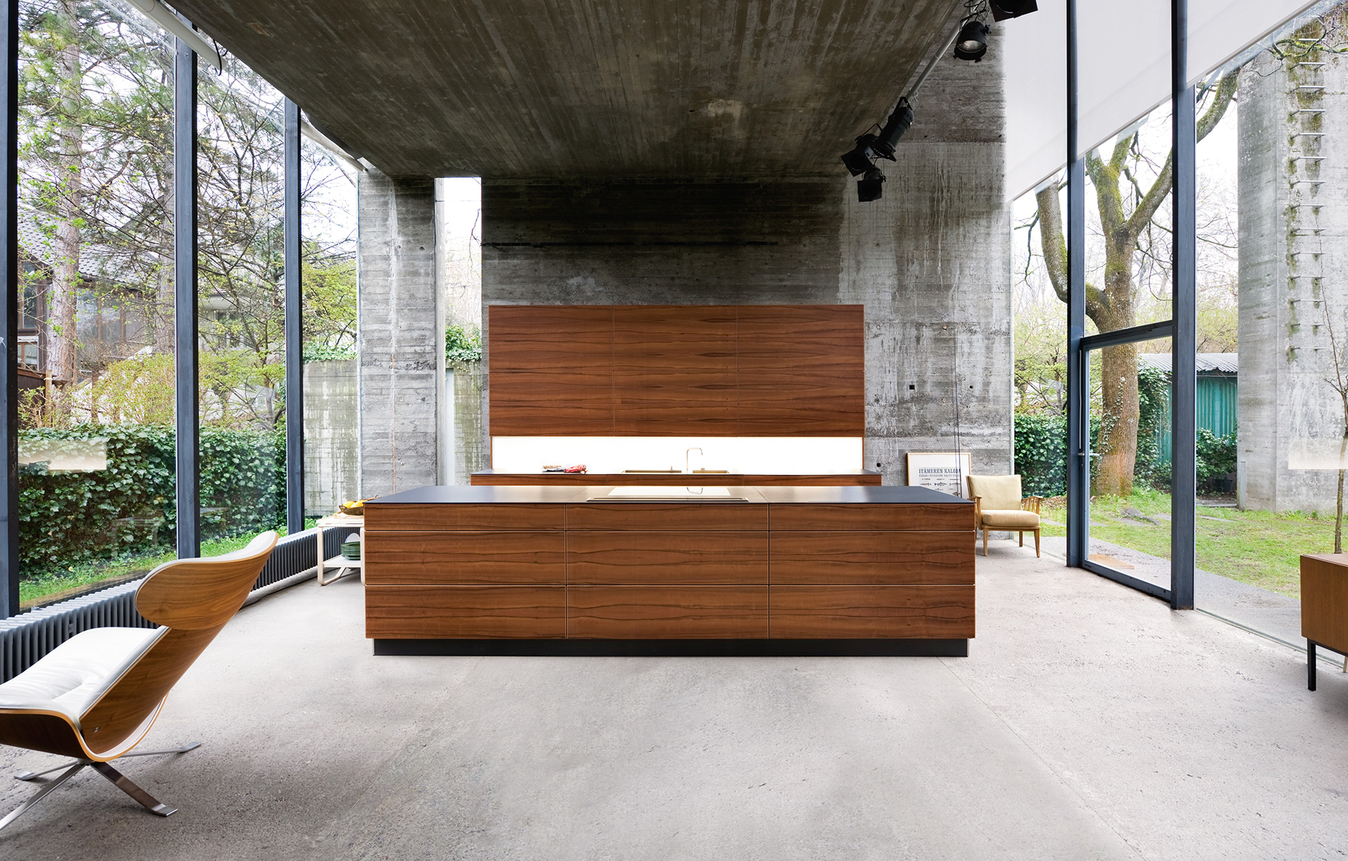
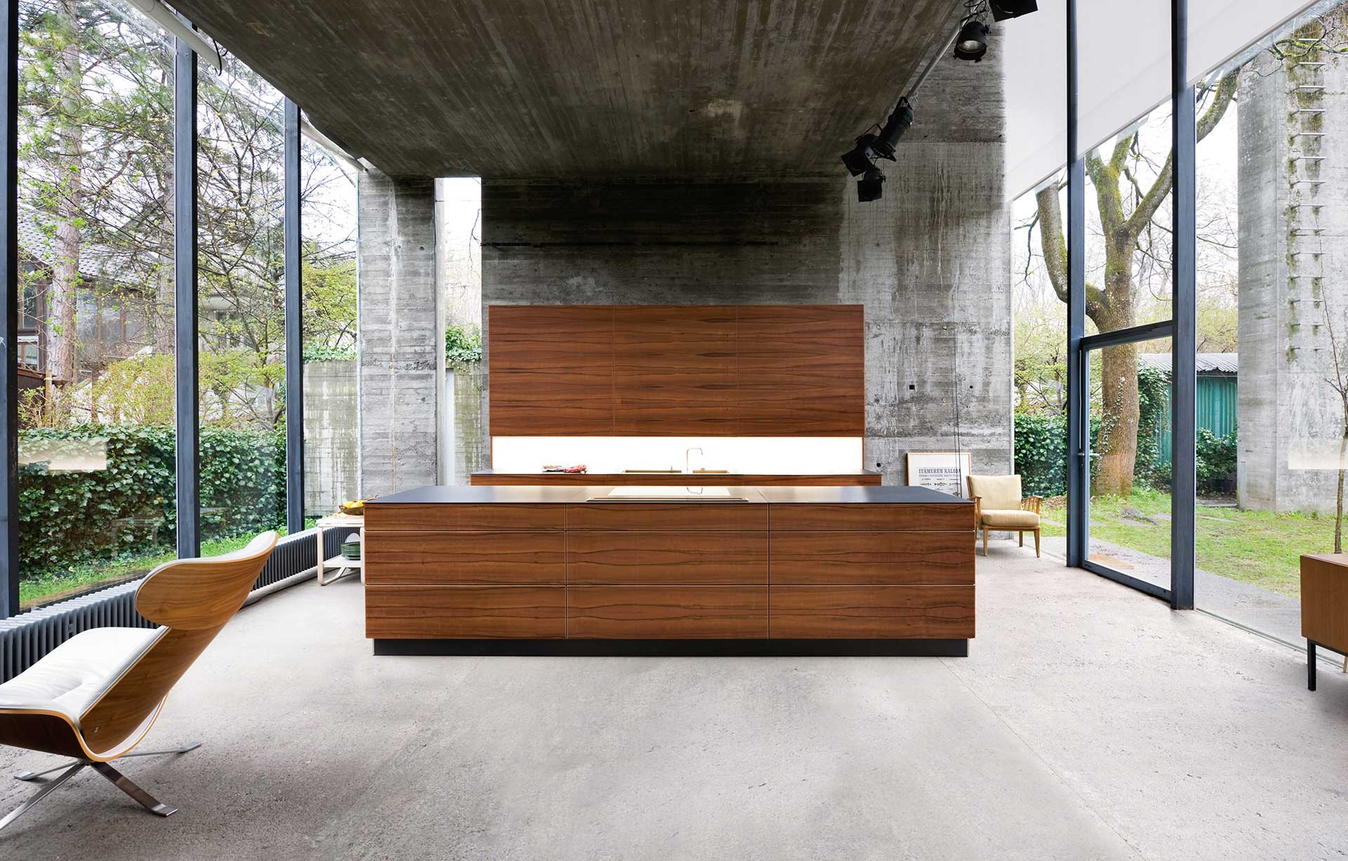
Remove script file fluff and link in downsaved images

diff --git a/index.html b/index.html
@@ -48,17 +48,17 @@
     <div id="carouselExampleFade" class="carousel slide carousel-fade" data-ride="carousel" data-interval="4200" data-pause="false">
       <div class="carousel-inner">
         <div class="carousel-item black-fade">
-          <img class="d-block w-100 slide-fade" src="/Images/slide-imagery/Warendorf16_02.jpg" alt="First slide">
+          <img class="d-block w-100 slide-fade" src="/Images/slide-imagery/downsaved/Warendorf16_02.jpg" alt="First slide">
           
         </div>
         <div class="carousel-item">
-          <img class="d-block w-100" src="/Images/slide-imagery/AL40028200.jpg" alt="Second slide">
+          <img class="d-block w-100" src="/Images/slide-imagery/downsaved/AL40028200.jpg" alt="Second slide">
         </div>
         <div class="carousel-item">
-          <img class="d-block w-100" src="/Images/slide-imagery/FUSION-230-x-180-H-67a.jpg" alt="Third slide">
+          <img class="d-block w-100" src="/Images/slide-imagery/downsaved/FUSION-230-x-180-H-67a.jpg" alt="Third slide">
         </div>
         <div class="carousel-item">
-            <img class="d-block w-100" src="/Images/slide-imagery/mosaic_anniversary_oro_doppia.jpg" alt="Fourth slide">
+            <img class="d-block w-100" src="/Images/slide-imagery/downsaved/mosaic_anniversary_oro_doppia.jpg" alt="Fourth slide">
           </div>
       </div>
     </div>

diff --git a/scripts.js b/scripts.js
@@ -11,17 +11,12 @@ $(window).scroll(function() {
     }
 });
 
-//Remove Opacity 
-//var str = "bar";
-//$('<style>div.carousel-item::after{opacity:0}</style>').delay(3000).appendTo('head');
-
+//Remove opacity
 setTimeout(
   function() 
   {
     $('<style>div.carousel-item::after{opacity:0}</style>').appendTo('head');
   }, 8800);
-
-// $(".carousel-item::after").animate({opacity: '0'}, 3000);
 
 //Makes Carousel Images backgrounds (makes it full screen)
 
@@ -50,18 +45,11 @@ $(window).on('resize', function (){
 
 $item.eq(0).addClass('active');
 
-//Controls slide speed
-
-//$(document).ready(function() {
- // jQuery.fn.carousel.Constructor.TRANSITION_DURATION = 4000  // 2 seconds
-//});
-
 //Smooth Scroll
 
 document.querySelectorAll('a[href^="#"]').forEach(anchor => {
   anchor.addEventListener('click', function (e) {
       e.preventDefault();
-
       document.querySelector(this.getAttribute('href')).scrollIntoView({
           behavior: 'smooth'
       });
